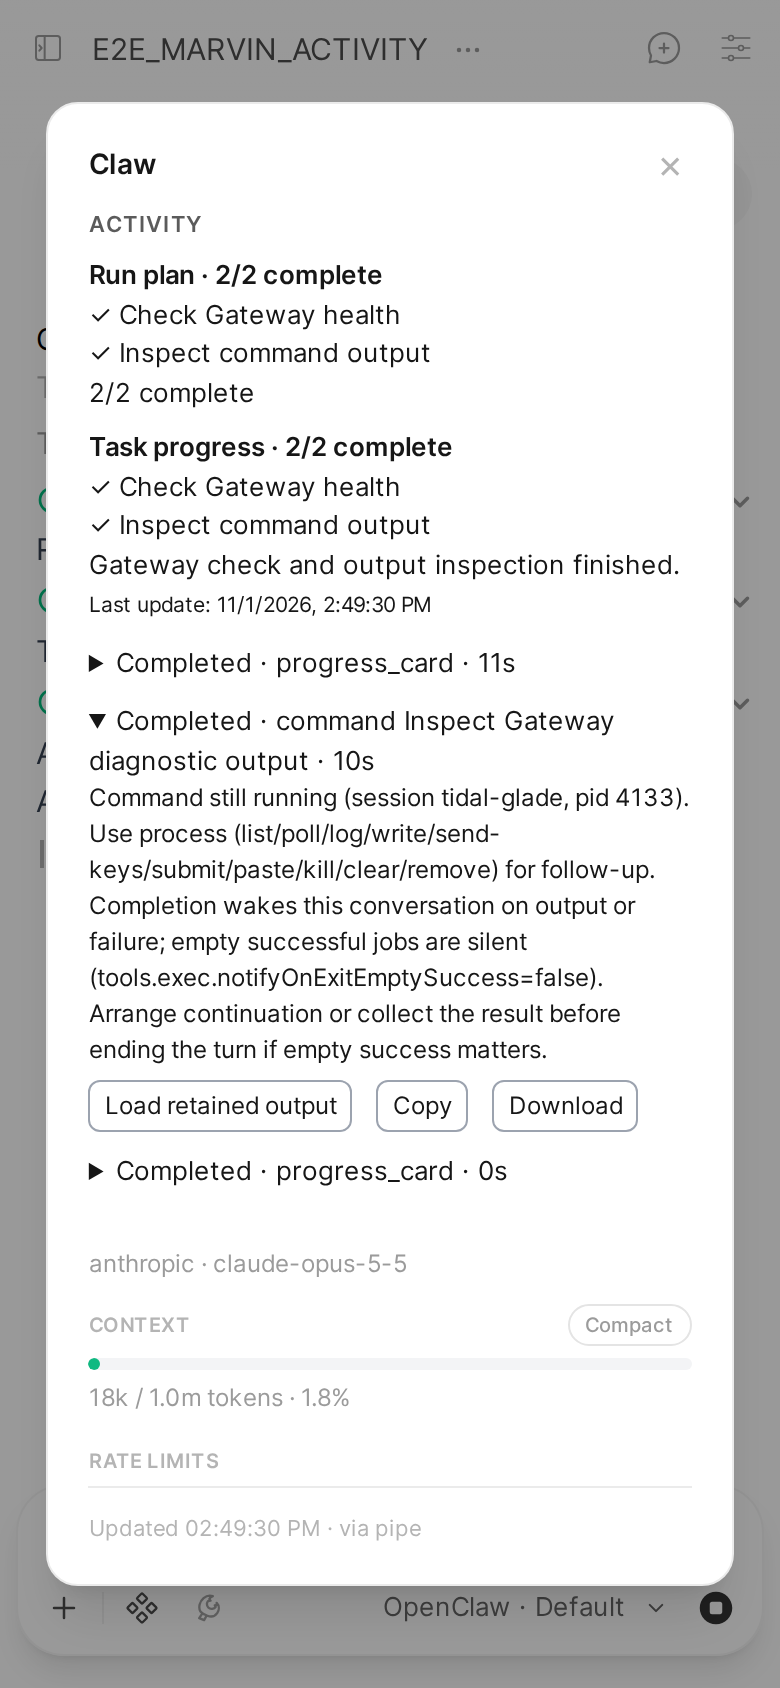
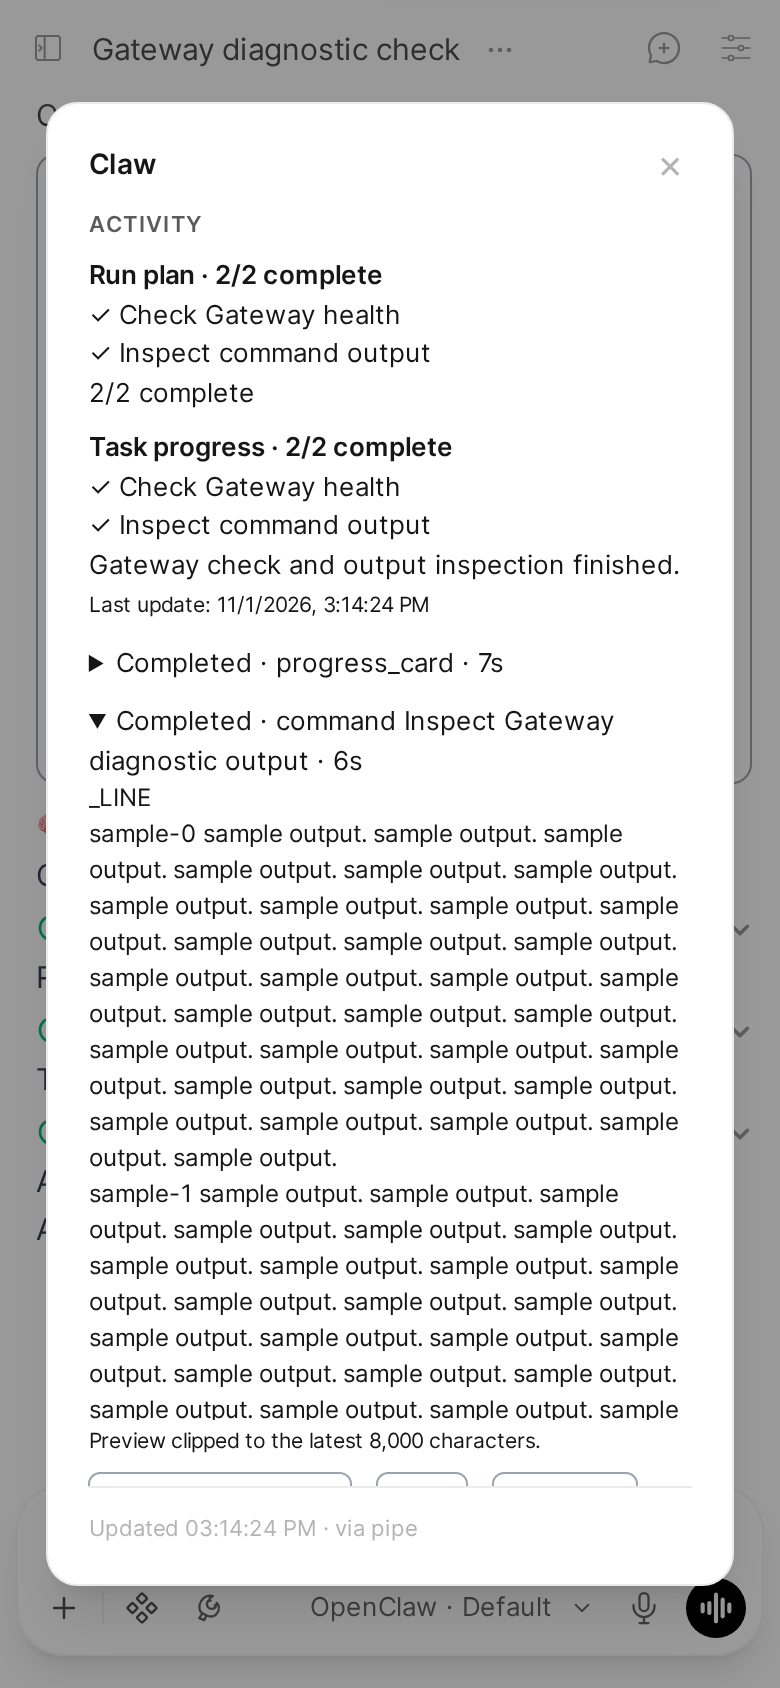
Document and show the verified live activity and retained-output views

diff --git a/src/openclaw_pipe_pkg/activity.py b/src/openclaw_pipe_pkg/activity.py
@@ -1,4 +1,4 @@
-# Shared, bounded presentation state. This module performs no file or network I/O.
+# Bounded presentation state and read-only Gateway snapshots.
 MARVIN_RELEASE = "marvin-v1.0.0"
 ACTIVITY_STREAM = "bridge_activity"
 ACTIVITY_STREAMS = (ACTIVITY_STREAM, "command_output", "run_status", "plan", "lifecycle")

diff --git a/docs/features/activity.md b/docs/features/activity.md
@@ -4,6 +4,8 @@ The Marvin bridge adds a Task activity block to tool-using replies. Its summary 
 
 Applies to: Pipe and Status Action, installed together from the same Marvin release.
 
+<img src="../img/marvin-live-activity-light.png" alt="Live task steps and command output appear separately from the assistant answer" width="320">
+
 <img src="../img/marvin-activity-light.png" alt="Task progress and a command preview in the Activity panel" width="320">
 
 ## What the display means
@@ -33,6 +35,6 @@ A saved card is the last confirmed snapshot, with its update time. A newer run p
 
 ## Installation and versions
 
-This release is tested with Open WebUI 0.12.5 and OpenClaw 2026.10.9. It uses the existing [Status Action configuration](../configuration.md#state_dir) and paired Gateway connection. There are no new valves, Gateway plugins or agent instructions to install. Existing tools, questions, approvals and sub-agent controls remain handled by the upstream bridge.
+This release is tested with Open WebUI 0.12.5 and OpenClaw 2026.10.9. It uses the existing [Status Action configuration](../configuration.md#state_dir) and paired Gateway connection. Keep the existing [composer Status button](../configuration.md#composer_status_button) enabled for automatic restoration when opening a chat. There are no new valves, Gateway plugins or agent instructions to install. Existing tools, questions, approvals and sub-agent controls remain handled by the upstream bridge.
 
 See [maintaining the Marvin fork](../marvin-maintenance.md) for release checks, updates and rollback.

diff --git a/docs/marvin-maintenance.md b/docs/marvin-maintenance.md
@@ -8,6 +8,8 @@ The maintained source is [Ixian/openclaw-openwebui-integration](https://github.c
 
 We maintain the bridge's Python source, its generated Pipe and Status Action, tests, release manifest and update tooling. Open WebUI and OpenClaw remain official distributions. The homelab keeps its existing Docker Compose image digest. Updating this bridge changes Functions through Open WebUI's API, not a container image or a file edited inside a container.
 
+The fork owns the in-page Activity renderer delivered through Functions execute events. Browser tests cover its message selectors; an Open WebUI layout change can require an update to that renderer.
+
 The feature's presentation state is derived from Gateway events and read APIs. It does not patch Open WebUI's frontend bundle, OpenClaw's database, or the agent's instructions.
 
 ## Make an upstream update
